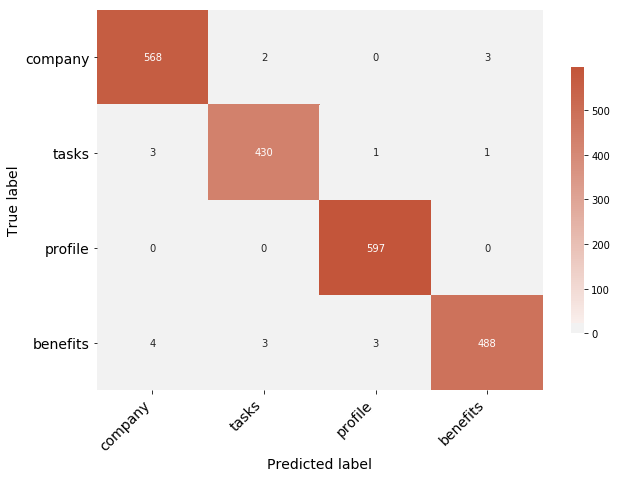
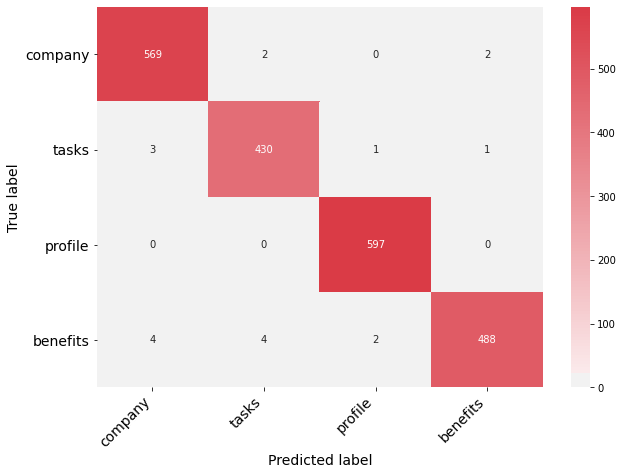
modify plots

diff --git a/ML-models.md b/ML-models.md
@@ -1,13 +1,14 @@
 ## Machine learning models
 
-This notes contain the code of machine learning models on a specific task - job segmentation. The model can be used to automatic predict which part of the job description, general there are four parts in a typical job description:
+This note contains the code of machine learning models on a specific task - job segmentation. The model can be used to automatic predict which part of the job description, general there are four parts in a typical job description:
 - company introduction,
 - tasks
 - requirements
 - benefits
+
 It is a typical classification problem on NLP. And it is super useful in our daily analysis on label market.
 
-The feature engineer have been done, feel free to check the [this notebooks](https://github.com/RuihaoQiu/NLP-projects/blob/master/notebooks/Job_segmentation/Feature_engineering_job_segmentation.ipynb) and the previous chapters. There are three types of features:
+The feature engineering have been done, feel free to check the [this notebooks](https://github.com/RuihaoQiu/NLP-projects/blob/master/notebooks/Job_segmentation/Feature_engineering_job_segmentation.ipynb) and the previous chapters. There are three types of features:
 - Bag-of-words features: vectorize each text with tfidf-vectorizer and reduce the feature dimension with SVD down to 50 components.
 - Text-based statistical features: e.g. word counts, characters counts, punctuation counts ... etc.
 - Part of speech features: noun, verb, adj, ...
@@ -34,7 +35,7 @@ print(X_train.shape, X_test.shape)
 (2103, 63) (902, 63)
 
 ### Model selection
-Here I only focus on tree-based models.
+Here I will focus on tree-based models and neural networks.
 
 - Decision Tree
 ```
@@ -96,11 +97,120 @@ print("Training accuracy: {0:5.2f}%.\
 Training accuracy: 99.10%.<br>
 Testing accuracy: 95.23%.
 
+- Neural networks
+
+Prepare input
+```
+# input parameters
+label_column = "label"
+model_file = "model.h5"
+history_file = "history.csv"
+stats_file = "stats.cav"
+
+label_dict = {
+    "company": 0,
+    "tasks": 1,
+    "profile": 2,
+    "benefits": 3
+}
+
+# make stats file for train data for normalizing data
+df_stats = df_train.describe().loc[["mean", "std"]].transpose()
+
+def norm(df, train_stats):
+    """Normalized based on mean and std of training data
+
+    Args:
+        df: input features
+        train_stats (df): statistics of train data, from pd.DataFrame.describe function
+
+    Returns:
+        Normalized df
+    """
+    return (df - train_stats['mean']) / train_stats['std']
+
+def make_train_data():
+    """make training inputs.
+
+    Return:
+        train_data: normilized features
+        train_labels: target label
+    """
+    df_input_pm = df_train.iloc[np.random.permutation(len(df_train))]
+    features = df_input_pm.drop(label_column, axis=1)
+    train_features_norm = norm(features, df_stats)
+    train_label = to_categorical(df_input_pm[label_column].map(label_dict))
+    return train_features_norm, train_label
+
+train_data, train_labels = make_train_data()
+```
+Build model
+```
+def build_model(X, learning_rate=0.001):
+    """Build neural networks model.
+    3-layers full-connected model with [16,8,4] neurons each.
+
+    Args:
+        X: input features
+        learning_rate (float): learning rate of the learning algorithm
+
+    Returns:
+        NN: fully connected neural networks model
+    """
+    NN = Sequential()
+    NN.add(Dense(16, activation='relu', input_dim=X.shape[1]))
+    NN.add(Dropout(0.2))
+    NN.add(Dense(8, activation='relu'))
+    NN.add(Dropout(0.2))
+    NN.add(Dense(4, activation='softmax'))
+
+    NN.compile(
+        optimizer=SGD(lr=0.005, momentum=0.8),
+        loss='categorical_crossentropy',
+        metrics=['accuracy']
+    )
+    return NN
+
+model = build_model(train_data)
+```
+Training
+```
+clear_session()
+
+history = model.fit(
+    train_data,
+    train_labels,
+    validation_split = 0.3,
+    epochs=1000,
+    verbose=3
+)
+```
+Check performance
+```
+df_history = pd.DataFrame(history.history)
+def plot_history(df_history):
+    """Plot learning curve for both training and testing data.
+    """
+    plt.figure()
+    plt.xlabel('Epoch')
+    plt.ylabel('Accuracy')
+    plt.plot(df_history['accuracy'], label='Train Error')
+    plt.plot(df_history['val_accuracy'], label = 'Val Error')
+    plt.grid(True)
+    plt.legend()
+    plt.show()
+
+plot_history(df_history)
+```
+![performance](plots/performance.png)
+
+
+
 As you can see, it is easy to build models once we have prepared the data. We just need to spend some time on hyper-parameter tuning. More advanced model can largely increase the accuracy. The accuracy is very high now. Let's do further analysis.
 
 
 ### Model evaluation
-**Confusion matrix**
+**Confusion matrix**<br>
 One nice way to measure the model accuracy is confusion matrix. Here is the code the plot the heatmap.
 ```
 import matplotlib.pyplot as plt
@@ -113,29 +223,31 @@ y_pred_test = GBC.predict(X_test)
 cm_train = confusion_matrix(y_train, y_pred_train, labels=labels)
 cm_test = confusion_matrix(y_test, y_pred_test, labels=labels)
 
-def print_confusion_matrix(confusion_matrix, class_names, figsize = (10,7), fontsize=14, cmap=plt.cm.RdBu_r):
-    """Plot a confusion matrix as a heatmap.
+def plot_confusion_matrix(confusion_matrix, class_names, figsize = (10,7), fontsize=14, cmap=plt.cm.RdBu_r):
+    """Prints a confusion matrix as a heatmap.
 
     Inputs
     ---------
     confusion_matrix: numpy.ndarray
         The numpy.ndarray object returned from a call to sklearn.metrics.confusion_matrix.
     class_names: list
-        An ordered list of class names.
+        An ordered list of class names, in the order they index the given confusion matrix.
     figsize: tuple
     fontsize: int
+        Font size for axes labels.
 
     Outputs
     -------
     matplotlib.figure.Figure
-        The resulting confusion matrix heatmap
+        The resulting confusion matrix figure
     """
     df_cm = pd.DataFrame(
         confusion_matrix, index=class_names, columns=class_names,
     )
+    cmap = sns.diverging_palette(240, 10, as_cmap=True)
     fig = plt.figure(figsize=figsize)
     try:
-        heatmap = sns.heatmap(df_cm, annot=True, fmt="d", cmap=cmap)
+        heatmap = sns.heatmap(df_cm, annot=True, center==0, fmt="d", cmap=cmap)
     except ValueError:
         raise ValueError("Confusion matrix values must be integers.")
     heatmap.yaxis.set_ticklabels(heatmap.yaxis.get_ticklabels(), rotation=0, ha='right', fontsize=fontsize)
@@ -145,12 +257,14 @@ def print_confusion_matrix(confusion_matrix, class_names, figsize = (10,7), font
 ```
 - Confusion matrix for training set
 ```
-print_confusion_matrix(confusion_matrix=cm_train, class_names=labels)
+plot_confusion_matrix(confusion_matrix=cm_train, class_names=labels)
 ```
 ![train](plots/confusion_matrix_heatmap_train.png)
 
 - Confusion matrix for testing set
 ```
-print_confusion_matrix(confusion_matrix=cm_test, class_names=labels)
+plot_confusion_matrix(confusion_matrix=cm_test, class_names=labels)
 ```
 ![test](plots/confusion_matrix_heatmap_test.png)
+
+I will discuss model evaluation in a separated chapter, since it is important to select the right measurement for a machine learning problem.
